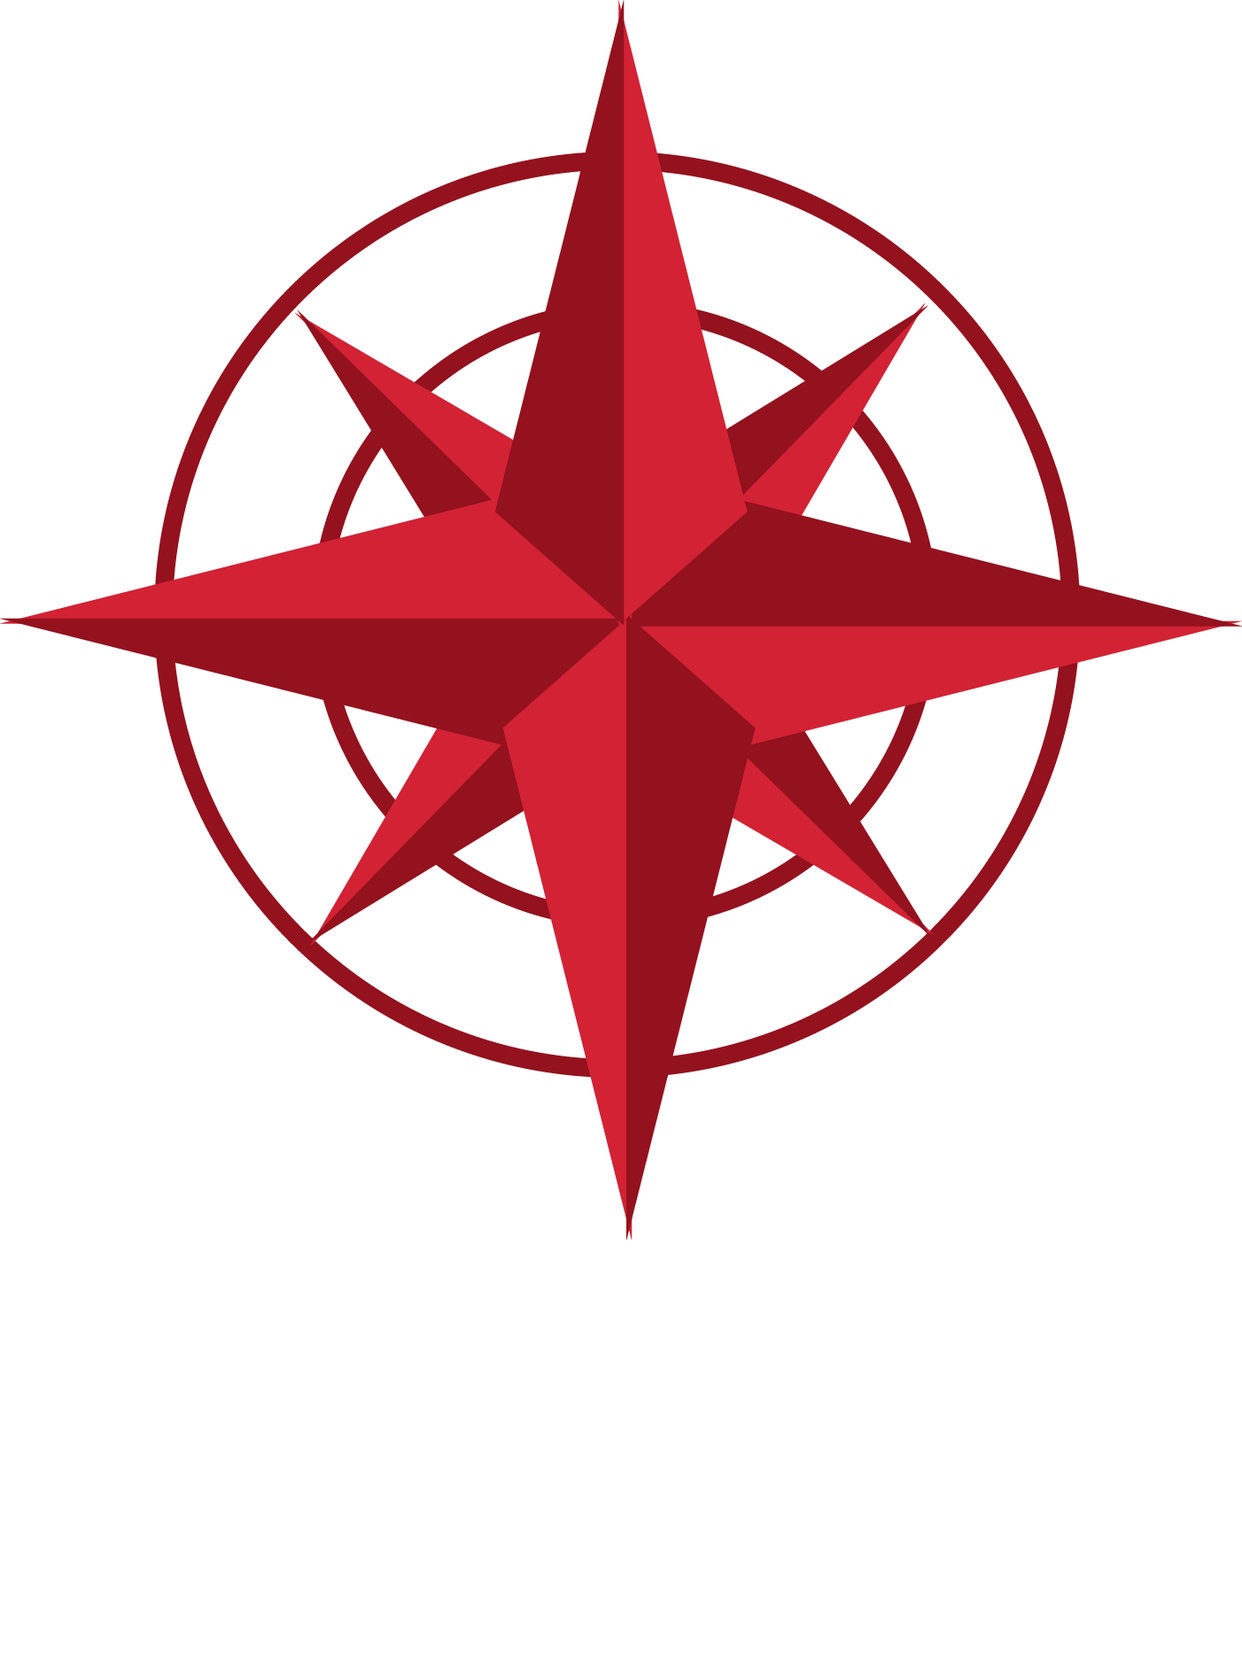
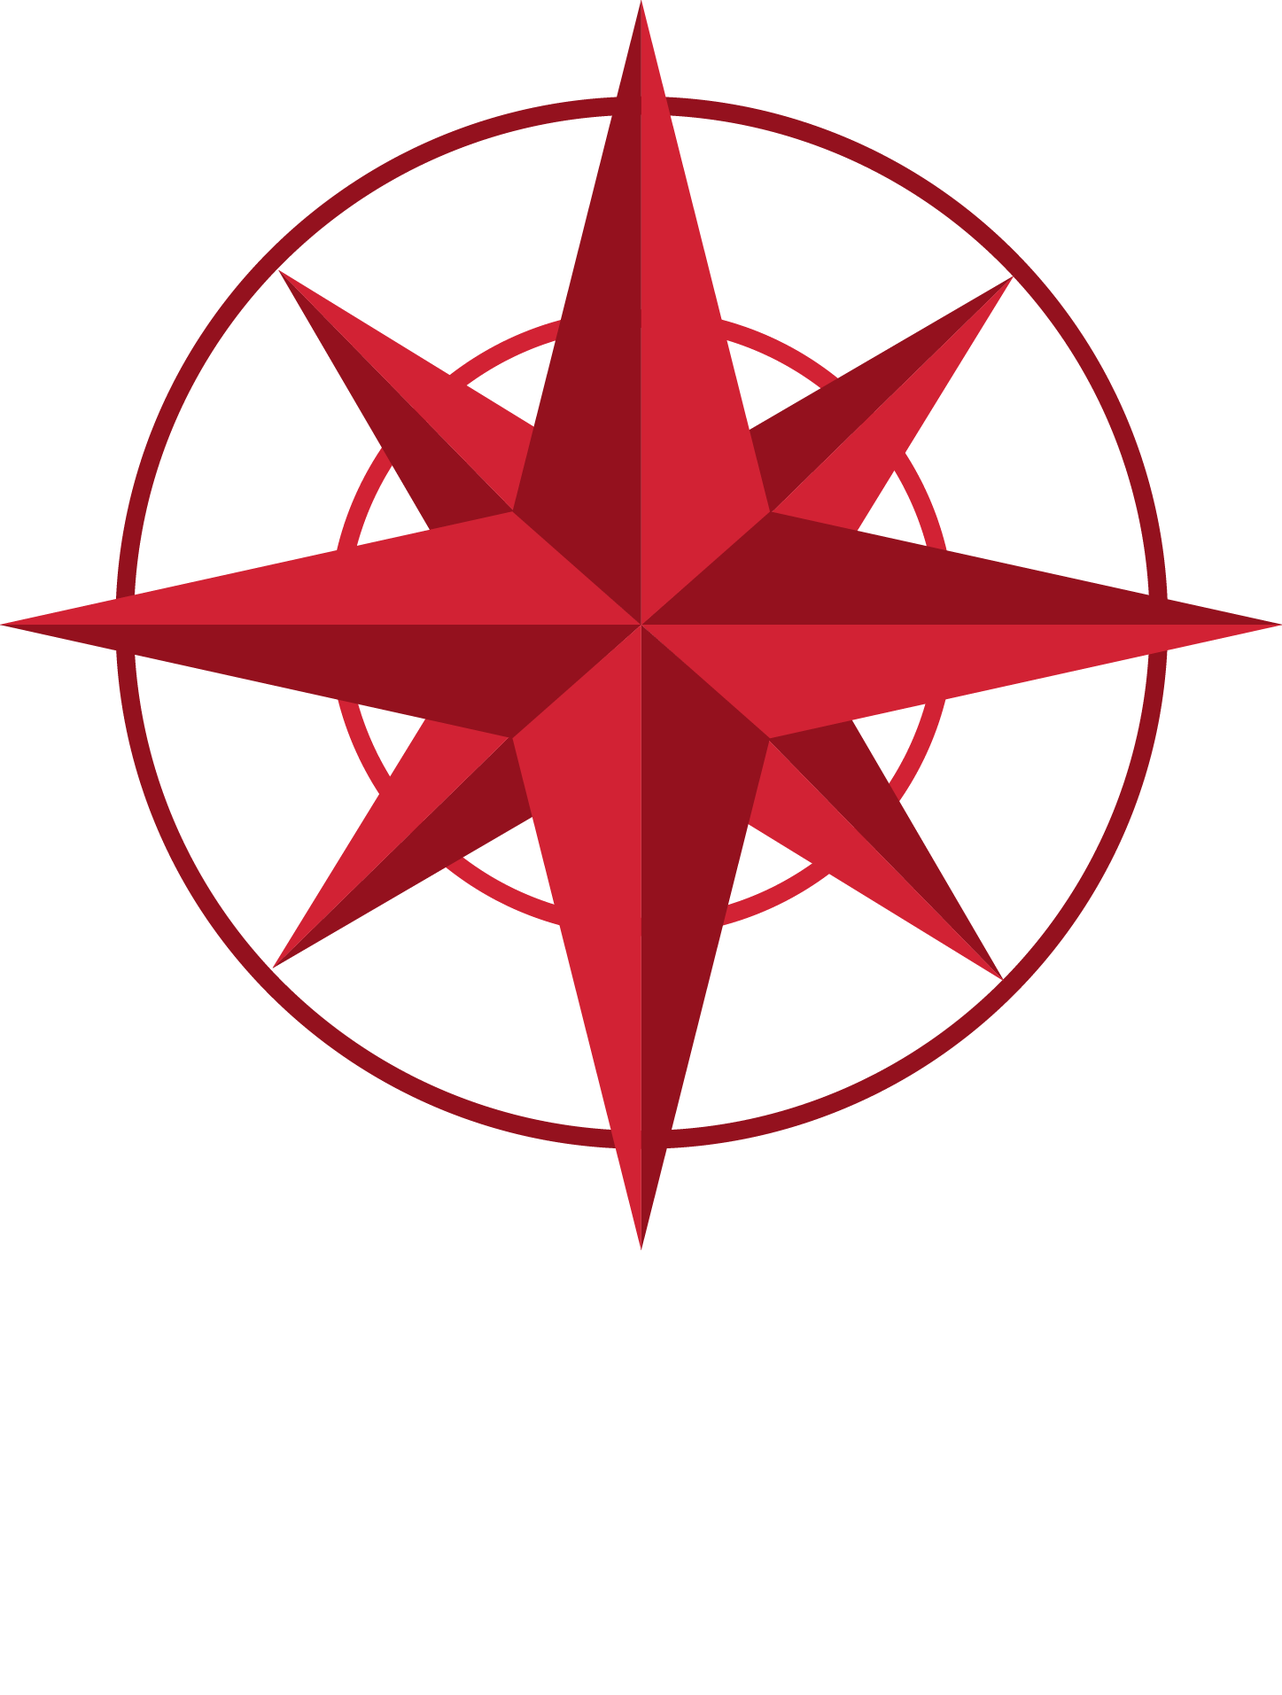
profile & img symmetry changes

Changed region(s): [[0.0, 0.0, 1.0, 0.7396], [0.5521, 0.3082, 0.5827, 0.339], [0.4294, 0.4006, 0.4601, 0.4315]]

diff --git a/css/nav.min.css b/css/nav.min.css
@@ -2,4 +2,4 @@
  * Start Bootstrap - Grayscale v3.3.7+1 (http://startbootstrap.com/template-overviews/grayscale)
  * Copyright 2013-2016 Start Bootstrap
  * Licensed under MIT (https://github.com/BlackrockDigital/startbootstrap/blob/gh-pages/LICENSE)
- */body,html{height:100%;width:100%}.navbar-custom,body{background-color:#000}.intro,body,html{width:100%}body{font-family:Baloo,"Helvetica Neue",Helvetica,Arial,sans-serif;color:#fff;webkit-tap-highlight-color:rgba(192,192,192,0.3)}.btn,.navbar-custom,h1,h2,h3,h4,h5,h6{text-transform:uppercase;font-family:Montserrat,"Helvetica Neue",Helvetica,Arial,sans-serif}.featurette-heading,h2{text-transform:uppercase;font-family:Baloo,Montserrat,"Helvetica Neue",Helvetica,Arial,sans-serif;font-size: 40px}.lead,p{font-family: Raleway, Montserrat, Helvetica, Arial, sans-serif}h1,h2,h3,h4,h5,h6{margin:0 0 35px;font-weight:700;letter-spacing:1px}p{margin:0 0 25px;font-size:18px;line-height:1.5}@media (min-width:768px){p{margin:0 0 35px;font-size:20px;line-height:1.6}}a{color:#42DCA3;-webkit-transition:all .2s ease-in-out;-moz-transition:all .2s ease-in-out;transition:all .2s ease-in-out}a:focus,a:hover{text-decoration:none;color:#1d9b6c}.light{font-weight:400}.navbar-custom{margin-bottom:0;border-bottom:1px solid rgba(255,255,255,.3)}.navbar-custom .navbar-toggle{color:#fff;background-color:rgba(255,255,255,.2);font-size:12px}.navbar-custom .nav li a:active,.navbar-custom .nav li a:focus,.navbar-custom .nav li a:hover{background-color:transparent;outline:0}.navbar-custom .navbar-toggle:active,.navbar-custom .navbar-toggle:focus{outline:0}.navbar-custom .navbar-brand{font-weight:700}.navbar-custom .navbar-brand:focus{outline:0}.navbar-custom a{color:#fff}.navbar-custom .nav li a{-webkit-transition:background .3s ease-in-out;-moz-transition:background .3s ease-in-out;transition:background .3s ease-in-out}.navbar-custom .nav li a:hover{color:rgba(255,255,255,.8)}.navbar-custom .nav li.active{outline:0}.navbar-custom .nav li.active a{background-color:rgba(255,255,255,.3)}.navbar-custom .nav li.active a:hover{color:#fff}@media (min-width:768px){.navbar-custom{padding:20px 0;border-bottom:none;letter-spacing:1px;background:0 0;-webkit-transition:background .5s ease-in-out,padding .5s ease-in-out;-moz-transition:background .5s ease-in-out,padding .5s ease-in-out;transition:background .5s ease-in-out,padding .5s ease-in-out}.navbar-custom.top-nav-collapse{padding:0;background:#000;border-bottom:1px solid rgba(255,255,255,.3)}}.intro{display:table;height:auto;padding:100px 0;text-align:center;color:#fff;background:url(../img/intro-bg.jpg) bottom center no-repeat #000;-webkit-background-size:cover;-moz-background-size:cover;background-size:cover;-o-background-size:cover}.intro .intro-body{display:table-cell;vertical-align:middle}.intro .intro-body .brand-heading{font-size:40px}.intro .intro-body .intro-text{font-size:18px}@media (min-width:768px){.intro{height:100%;padding:0}.intro .intro-body .brand-heading{font-size:100px}.intro .intro-body .intro-text{font-size:26px}}.btn-circle{width:70px;height:70px;margin-top:15px;padding:7px 16px;border:2px solid #fff;border-radius:100%!important;font-size:40px;color:#fff;background:0 0;-webkit-transition:background .3s ease-in-out;-moz-transition:background .3s ease-in-out;transition:background .3s ease-in-out}.btn-circle:focus,.btn-circle:hover{outline:0;color:#fff;background:rgba(255,255,255,.1)}.btn-circle i.animated{-webkit-transition-property:-webkit-transform;-webkit-transition-duration:1s;-moz-transition-property:-moz-transform;-moz-transition-duration:1s}.btn-circle:hover i.animated{-webkit-animation-name:pulse;-moz-animation-name:pulse;-webkit-animation-duration:1.5s;-moz-animation-duration:1.5s;-webkit-animation-iteration-count:infinite;-moz-animation-iteration-count:infinite;-webkit-animation-timing-function:linear;-moz-animation-timing-function:linear}@-webkit-keyframes pulse{0%,100%{-webkit-transform:scale(1);transform:scale(1)}50%{-webkit-transform:scale(1.2);transform:scale(1.2)}}@-moz-keyframes pulse{0%,100%{-moz-transform:scale(1);transform:scale(1)}50%{-moz-transform:scale(1.2);transform:scale(1.2)}}.content-section{padding-top:100px}.download-section{width:100%;padding:50px 0;color:#fff;background:url(../img/downloads-bg.jpg) center center no-repeat #000;-webkit-background-size:cover;-moz-background-size:cover;background-size:cover;-o-background-size:cover}#map{width:100%;height:200px;margin-top:100px}@media (min-width:767px){.content-section{padding-top:250px}.download-section{padding:100px 0}#map{height:400px;margin-top:250px}}.btn{font-weight:400;-webkit-transition:all .3s ease-in-out;-moz-transition:all .3s ease-in-out;transition:all .3s ease-in-out;border-radius:0}.btn-default{border:1px solid #42DCA3;color:#42DCA3;background-color:transparent}.btn-default:focus,.btn-default:hover{border:1px solid #42DCA3;outline:0;color:#000;background-color:#42DCA3}ul.banner-social-buttons{margin-top:0}@media (max-width:1199px){ul.banner-social-buttons{margin-top:15px}}@media (max-width:767px){ul.banner-social-buttons li{display:block;margin-bottom:20px;padding:0}ul.banner-social-buttons li:last-child{margin-bottom:0}}footer{padding:50px 0}footer p{margin:0}::-moz-selection{text-shadow:none;background:#990000;background:rgb(186,7,7)}::selection{text-shadow:none;background:#fcfcfc;background:rgb(186,7,7)}img::selection{background:0 0}img::-moz-selection{background:0 0} .div-padding{padding-top: 50px} h5{display: inline; float: left;} .img2{display:inline; float: left;} .navbar-brand2{padding: 0px} .span-font{font-family: Baloo,Montserrat,"Helvetica Neue",Helvetica,Arial,sans-serif; font-weight: lighter; font-size: 110%}
+ */body,html{height:100%;width:100%}.navbar-custom,body{background-color:#000}.intro,body,html{width:100%}body{font-family:Baloo,"Helvetica Neue",Helvetica,Arial,sans-serif;color:#fff;webkit-tap-highlight-color:rgba(192,192,192,0.3)}.btn,.navbar-custom,h1,h2,h3,h4,h5,h6{font-family:Montserrat,"Helvetica Neue",Helvetica,Arial,sans-serif}.featurette-heading,h2{text-transform:uppercase;font-family:Baloo,Montserrat,"Helvetica Neue",Helvetica,Arial,sans-serif;font-size: 40px}.lead,p{font-family: Raleway, Montserrat, Helvetica, Arial, sans-serif}h1,h2,h3,h4,h5,h6{margin:0 0 35px;font-weight:700;letter-spacing:1px}p{margin:0 0 25px;font-size:18px;line-height:1.5}@media (min-width:768px){p{margin:0 0 35px;font-size:20px;line-height:1.6}}a{color:#42DCA3;-webkit-transition:all .2s ease-in-out;-moz-transition:all .2s ease-in-out;transition:all .2s ease-in-out}a:focus,a:hover{text-decoration:none;color:#1d9b6c}.light{font-weight:400}.navbar-custom{margin-bottom:0;border-bottom:1px solid rgba(255,255,255,.3)}.navbar-custom .navbar-toggle{color:#fff;background-color:rgba(255,255,255,.2);font-size:12px}.navbar-custom .nav li a:active,.navbar-custom .nav li a:focus,.navbar-custom .nav li a:hover{background-color:transparent;outline:0}.navbar-custom .navbar-toggle:active,.navbar-custom .navbar-toggle:focus{outline:0}.navbar-custom .navbar-brand{font-weight:700}.navbar-custom .navbar-brand:focus{outline:0}.navbar-custom a{color:#fff}.navbar-custom .nav li a{-webkit-transition:background .3s ease-in-out;-moz-transition:background .3s ease-in-out;transition:background .3s ease-in-out}.navbar-custom .nav li a:hover{color:rgba(255,255,255,.8)}.navbar-custom .nav li.active{outline:0}.navbar-custom .nav li.active a{background-color:rgba(255,255,255,.3)}.navbar-custom .nav li.active a:hover{color:#fff}@media (min-width:768px){.navbar-custom{padding:20px 0;border-bottom:none;letter-spacing:1px;background:0 0;-webkit-transition:background .5s ease-in-out,padding .5s ease-in-out;-moz-transition:background .5s ease-in-out,padding .5s ease-in-out;transition:background .5s ease-in-out,padding .5s ease-in-out}.navbar-custom.top-nav-collapse{padding:0;background:#000;border-bottom:1px solid rgba(255,255,255,.3)}}.intro{display:table;height:auto;padding:100px 0;text-align:center;color:#fff;background:url(../img/intro-bg.jpg) bottom center no-repeat #000;-webkit-background-size:cover;-moz-background-size:cover;background-size:cover;-o-background-size:cover}.intro .intro-body{display:table-cell;vertical-align:middle}.intro .intro-body .brand-heading{font-size:40px}.intro .intro-body .intro-text{font-size:18px}@media (min-width:768px){.intro{height:100%;padding:0}.intro .intro-body .brand-heading{font-size:100px}.intro .intro-body .intro-text{font-size:26px}}.btn-circle{width:70px;height:70px;margin-top:15px;padding:7px 16px;border:2px solid #fff;border-radius:100%!important;font-size:40px;color:#fff;background:0 0;-webkit-transition:background .3s ease-in-out;-moz-transition:background .3s ease-in-out;transition:background .3s ease-in-out}.btn-circle:focus,.btn-circle:hover{outline:0;color:#fff;background:rgba(255,255,255,.1)}.btn-circle i.animated{-webkit-transition-property:-webkit-transform;-webkit-transition-duration:1s;-moz-transition-property:-moz-transform;-moz-transition-duration:1s}.btn-circle:hover i.animated{-webkit-animation-name:pulse;-moz-animation-name:pulse;-webkit-animation-duration:1.5s;-moz-animation-duration:1.5s;-webkit-animation-iteration-count:infinite;-moz-animation-iteration-count:infinite;-webkit-animation-timing-function:linear;-moz-animation-timing-function:linear}@-webkit-keyframes pulse{0%,100%{-webkit-transform:scale(1);transform:scale(1)}50%{-webkit-transform:scale(1.2);transform:scale(1.2)}}@-moz-keyframes pulse{0%,100%{-moz-transform:scale(1);transform:scale(1)}50%{-moz-transform:scale(1.2);transform:scale(1.2)}}.content-section{padding-top:100px}.download-section{width:100%;padding:50px 0;color:#fff;background:url(../img/downloads-bg.jpg) center center no-repeat #000;-webkit-background-size:cover;-moz-background-size:cover;background-size:cover;-o-background-size:cover}#map{width:100%;height:200px;margin-top:100px}@media (min-width:767px){.content-section{padding-top:250px}.download-section{padding:100px 0}#map{height:400px;margin-top:250px}}.btn{font-weight:400;-webkit-transition:all .3s ease-in-out;-moz-transition:all .3s ease-in-out;transition:all .3s ease-in-out;border-radius:0}.btn-default{border:1px solid #42DCA3;color:#42DCA3;background-color:transparent}.btn-default:focus,.btn-default:hover{border:1px solid #42DCA3;outline:0;color:#000;background-color:#42DCA3}ul.banner-social-buttons{margin-top:0}@media (max-width:1199px){ul.banner-social-buttons{margin-top:15px}}@media (max-width:767px){ul.banner-social-buttons li{display:block;margin-bottom:20px;padding:0}ul.banner-social-buttons li:last-child{margin-bottom:0}}footer{padding:50px 0}footer p{margin:0}::-moz-selection{text-shadow:none;background:#990000;background:rgb(186,7,7)}::selection{text-shadow:none;background:#fcfcfc;background:rgb(186,7,7)}img::selection{background:0 0}img::-moz-selection{background:0 0} .div-padding{padding-top: 50px} h5{display: inline; float: left;} .img2{display:inline; float: left;} .navbar-brand2{padding: 0px} .span-font{font-family: Baloo,Montserrat,"Helvetica Neue",Helvetica,Arial,sans-serif; font-weight: lighter; font-size: 110%; text-transform: lowercase;}

diff --git a/css/main.css b/css/main.css
@@ -7,113 +7,7 @@ body {
     color: #5a5a5a;
 }
 
-/*icon font
----------------------------------------------------*/
-@font-face {
-  font-family: 'icomoon';
-  src:  url('fonts/icomoon.eot?i1bnl4');
-  src:  url('fonts/icomoon.eot?i1bnl4#iefix') format('embedded-opentype'),
-    url('fonts/icomoon.ttf?i1bnl4') format('truetype'),
-    url('fonts/icomoon.woff?i1bnl4') format('woff'),
-    url('fonts/icomoon.svg?i1bnl4#icomoon') format('svg');
-  font-weight: normal;
-  font-style: normal;
-}
 
-[class^="icon-"], [class*=" icon-"] {
-  /* use !important to prevent issues with browser extensions that change fonts */
-  font-family: 'icomoon' !important;
-  speak: none;
-  font-style: normal;
-  font-weight: normal;
-  font-variant: normal;
-  text-transform: none;
-  line-height: 1;
-    /* Better Font Rendering =========== */
-  -webkit-font-smoothing: antialiased;
-  -moz-osx-font-smoothing: grayscale;
-  font-smoothing: antialiased;
-  text-rendering: optimizeLegibility;
-}
-.icon-only_logo .path1:before {
-  content: "\e900";
-  color: rgb(210, 35, 51);
-}
-.icon-only_logo .path2:before {
-  content: "\e901";
-  margin-left: -1.013671875em;
-  color: rgb(148, 17, 30);
-}
-.icon-only_logo .path3:before {
-  content: "\e902";
-  margin-left: -1.013671875em;
-  color: rgb(210, 35, 51);
-}
-.icon-only_logo .path4:before {
-  content: "\e903";
-  margin-left: -1.013671875em;
-  color: rgb(148, 17, 30);
-}
-.icon-only_logo .path5:before {
-  content: "\e904";
-  margin-left: -1.013671875em;
-  color: rgb(210, 35, 51);
-}
-.icon-only_logo .path6:before {
-  content: "\e905";
-  margin-left: -1.013671875em;
-  color: rgb(148, 17, 30);
-}
-.icon-only_logo .path7:before {
-  content: "\e906";
-  margin-left: -1.013671875em;
-  color: rgb(210, 35, 51);
-}
-.icon-only_logo .path8:before {
-  content: "\e907";
-  margin-left: -1.013671875em;
-  color: rgb(148, 17, 30);
-}
-.icon-only_logo .path9:before {
-  content: "\e908";
-  margin-left: -1.013671875em;
-  color: rgb(210, 35, 51);
-}
-.icon-only_logo .path10:before {
-  content: "\e909";
-  margin-left: -1.013671875em;
-  color: rgb(148, 17, 30);
-}
-.icon-only_logo .path11:before {
-  content: "\e90a";
-  margin-left: -1.013671875em;
-  color: rgb(210, 35, 51);
-}
-.icon-only_logo .path12:before {
-  content: "\e90b";
-  margin-left: -1.013671875em;
-  color: rgb(148, 17, 30);
-}
-.icon-only_logo .path13:before {
-  content: "\e90c";
-  margin-left: -1.013671875em;
-  color: rgb(210, 35, 51);
-}
-.icon-only_logo .path14:before {
-  content: "\e90d";
-  margin-left: -1.013671875em;
-  color: rgb(148, 17, 30);
-}
-.icon-only_logo .path15:before {
-  content: "\e90e";
-  margin-left: -1.013671875em;
-  color: rgb(210, 35, 51);
-}
-.icon-only_logo .path16:before {
-  content: "\e90f";
-  margin-left: -1.013671875em;
-  color: rgb(148, 17, 30);
-}
 
 
 /* CUSTOMIZE THE NAVBAR
@@ -198,44 +92,7 @@ div#card {
 }
 
 
-/* MEET THE TEAM CONTENT
--------------------------------------------------- */
 
-/* Center align the text within the two columns below the carousel */
-.page-content .col-lg-6 {
-    margin-bottom: 20px;
-    text-align: center;
-}
-.page-content h2 {
-  font-weight: normal;
-}
-.page-content .col-lg-6 p {
-  margin-right: 10px;
-  margin-left: 10px;
-}
-
-
-/* RESPONSIVE CSS
--------------------------------------------------- */
-
-@media (min-width: 768px) {
-  /* Navbar positioning */
-  .navbar-wrapper {
-    margin-top: 20px;
-  }
-  .navbar-wrapper .container {
-    padding-right: 15px;
-    padding-left: 15px;
-  }
-  .navbar-wrapper .navbar {
-    padding-right: 0;
-    padding-left: 0;
-  }
-
-  /* The navbar becomes detached from the top, so we round the corners */
-  .navbar-wrapper .navbar {
-    border-radius: 4px;
-  }
 /*Highlight colour
 --------------------------------------------------*/
 ::selection {
@@ -266,6 +123,23 @@ div#card {
     color: #fff;
 }
 
+/* MEET THE TEAM CONTENT
+-------------------------------------------------- */
+
+
+.img-center {
+  margin: 0px auto;
+}
+.ul-padding{
+  padding-bottom: 20px;
+}
+.div-padding{  
+  padding-left: 10px;  
+  padding-right: 10px;
+  padding-bottom: 20px;
+  text-align: center;
+}
+
 /* Profile image component
 -------------------------------------------------- */
 .team-header-container {
@@ -273,33 +147,22 @@ div#card {
     overflow: hidden;
 }
 
-
 .team-header-img {
     width: 75%;
     height: auto;
     border-radius: 27px;
 }
 
-.profile-header-container{
-    margin: 0 auto;
-    text-align: center;
-    overflow: hidden;
-}
-
-.profile-header-img {
-    padding: 54px;
-}
-
 .profile-header-img > img.img-circle {
-    width: 189px;
-    height: 200px;
+    width: 169px;
+    height: 180px;
     border: 4px solid #990000;
-    margin-left: -10px;
 }
 
 .profile-header-img > p.text-muted {
-	font-size: 12px;
-	padding: 10px;
+	padding-top: 10px;
+  font-size: 18px;
+	
 }
 
 .profile-header {

diff --git a/index.html b/index.html
@@ -124,9 +124,9 @@
                     </div>
                 </div>
                 <div class="row">
-                    <div class="col-xs-3 col-sm-3 col-lg-3 profile-header-container">   
+                    <div class="col-md-3 div-padding">   
                         <div class="profile-header-img">
-                            <img class="img-circle center-block" src="images/team/tiffany.jpg" width="100%"/>
+                            <img class="img-circle center-block" src="images/team/tiffany.jpg" max-width="100%"/>
                             <!-- badge -->
                             <div class="rank-label-container">
                                 <span class="label label-default rank-label">Tiffany Cheung</span>
@@ -138,9 +138,9 @@
                             </ul>
                         </div>
                     </div>
-                    <div class="col-xs-3 col-sm-3 col-lg-3 profile-header-container">   
+                    <div class="col-md-3 div-padding">   
                         <div class="profile-header-img">
-                            <img class="img-circle" src="images/team/hans.jpg" width="100%"/>
+                            <img class="img-circle" src="images/team/hans.jpg" max-width="100%"/>
                             <!-- badge -->
                             <div class="rank-label-container">
                                 <span class="label label-default rank-label">Hans Maryil</span>
@@ -152,9 +152,9 @@
                             </ul>
                         </div>
                     </div>
-                    <div class="col-xs-3 col-sm-3 col-lg-3 profile-header-container">   
+                    <div class="col-md-3 div-padding">   
                         <div class="profile-header-img">
-                            <img class="img-circle" src="images/team/robert.jpg" width="100%"/>
+                            <img class="img-circle" src="images/team/robert.jpg" max-width="100%"/>
                             <!-- badge -->
                             <div class="rank-label-container">
                                 <span class="label label-default rank-label">Robert Sosiak</span>
@@ -166,9 +166,9 @@
                             </ul>
                         </div>
                     </div>
-                    <div class="col-xs-3 col-sm-3 col-lg-3 profile-header-container">
+                    <div class="col-md-3 div-padding">
                         <div class="profile-header-img">
-                            <img class="img-circle" src="images/team/aditya.jpg" width="100%"/>
+                            <img class="img-circle" src="images/team/aditya.jpg" max-width="100%"/>
                             <!-- badge -->
                             <div class="rank-label-container">
                                 <span class="label label-default rank-label">Aditya Junnarkar</span>
@@ -182,6 +182,7 @@
                     </div>
                 </div>
             </div>
+            <hr class="featurette-divider">
         </div>
 
         <!-- jQuery (necessary for Bootstrap's JavaScript plugins) -->

diff --git a/_layouts/default.html b/_layouts/default.html
@@ -7,16 +7,16 @@
         <!-- The above 3 meta tags *must* come first in the head; any other head content must come *after* these tags -->
         <meta name="description" content="">
         <meta name="author" content="">
-        <!--link rel="icon" href="images/website_logo.png"-->
+        
 
         <title>{{ page.title }}</title>
-
+        <link rel="shortcut icon" type="image/x-icon" href="/images/favicon.ico">
         <!-- Custom CSS -->
         <link href="/css/main.css" rel="stylesheet">
         <!-- Blog Theme CSS -->
         <link href="/css/clean-blog.min.css" rel="stylesheet">
         <!-- Navbar CSS -->
-        <link href="/css/grayscale.min.css" rel="stylesheet">
+        <link href="/css/nav.min.css" rel="stylesheet">
         <!-- JS -->
         <!-- Latest compiled and minified CSS -->
         <link rel="stylesheet" href="https://maxcdn.bootstrapcdn.com/bootstrap/3.3.7/css/bootstrap.min.css" integrity="sha384-BVYiiSIFeK1dGmJRAkycuHAHRg32OmUcww7on3RYdg4Va+PmSTsz/K68vbdEjh4u" crossorigin="anonymous">
@@ -41,9 +41,8 @@
                         Menu <i class="fa fa-bars"></i>
                     </button>
                     
-                    <a class="navbar-brand page-scroll" href="/index.html" >
-
-                        <img src="/images/background/hans_capstoneLogo4.png" href="/index.html" width="30%" class="img-responsive" style="cursor:pointer;">
+                    <a class="navbar-brand page-scroll" href="/index.html">
+                        <span><img src="images/background/nav_justLogo.png" href="" class="navbar-brand2" width="14%" style="cursor:pointer;"></span><span class="span-font">mniNav</span>
                     </a>
                 </div>
 

diff --git a/blog/index.html b/blog/index.html
@@ -3,7 +3,7 @@ layout: default
 title: Our Blog
 header_content: |
     <!-- Page Header -->
-    <header class="intro-header" style="background-image: url('/images/background/bg_18.jpg')">
+    <header class="intro-header" style="background-image: url('/images/background/bg_19.jpg')">
         <div class="container">
             <div class="row">
                 <div class="col-lg-8 col-lg-offset-2 col-md-10 col-md-offset-1">
